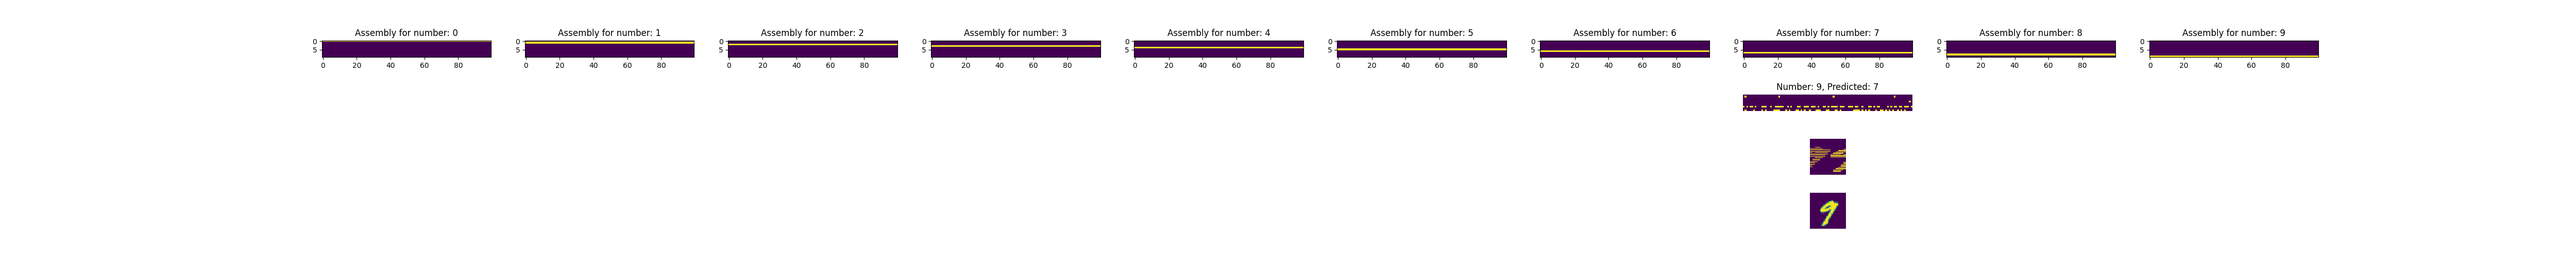
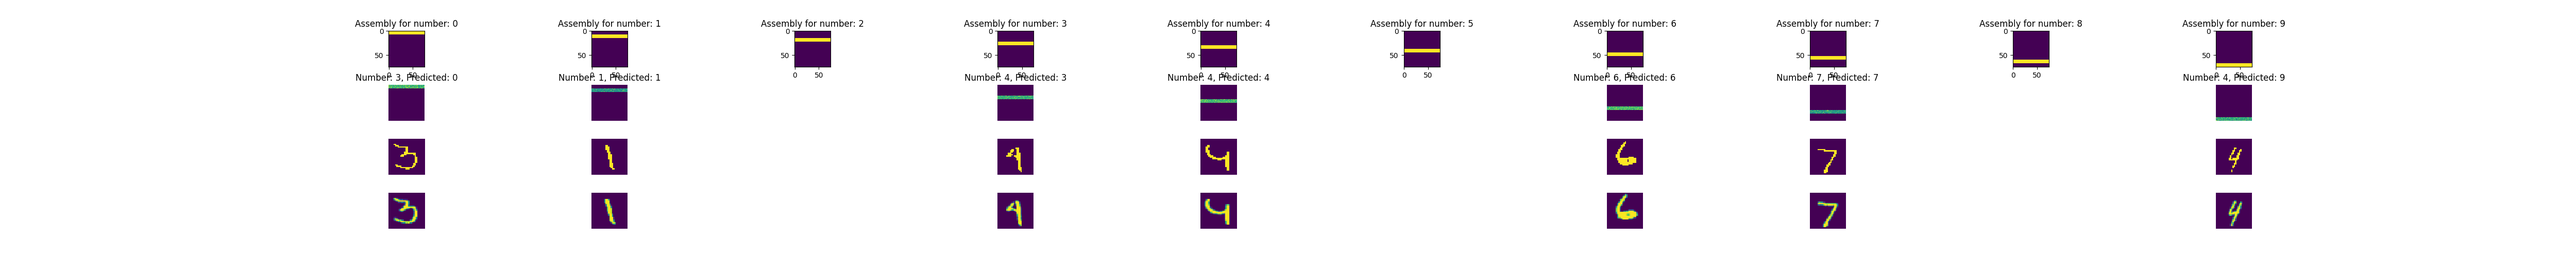
71% accuracy oh yeah

diff --git a/brain.py b/brain.py
@@ -18,7 +18,7 @@ class Brain():
     p_q: float
     no_classes: int
     
-    def __init__(self, p = 0.1, cap_size = 10, beta=0.1, p_r = 0.9, p_q = 0.1, no_classes = 10, n = 100, in_n = 784):
+    def __init__(self, p = 0.1, cap_size = 10, beta=0.1, p_r = 0.9, p_q = 0.1, no_classes = 10, n = 5625, in_n = 784*4):
         self.no_classes = no_classes
         self.cap_size = cap_size
         self.n = n
@@ -47,20 +47,21 @@ class Brain():
         return activations_t_1
     
     def _resize(self, input):
-        n = len(input)
-        out = np.array([])
-    
+        n = input.shape[0]
+        out = np.zeros((2*n, 2*n))
+
         for i in range(n):
-           x = input[i]
-           for _ in range(4):
-                out = np.append(out, x)
-        return out.reshape((56, 56))
+            new_row = np.repeat(input[i], 2)
+            out[2*i] = new_row
+            out[2*i + 1] = new_row
+        
+        return out
     
     def _get_in_class_activations(self, input, activations_callback=None):
         if activations_callback is not None: return activations_callback(input)
 
-        input = np.where(input > 100, 1, 0)        
-        test = self._resize(input)
+        input = np.where(input > 200, 1, 0)
+        test = self._resize(input.reshape((28, 28)))
         # tanh = np.tanh(test)
         # tanh = (np.random.rand(len(tanh)) < tanh).astype(int)
 
@@ -81,7 +82,7 @@ class Brain():
                 self.weights = self.weights * (np.ones((len(in_class_activations), self.n)) + outer_prod)
 
 
-            self.y[i] = np.where(activations_t_1 > 0 + np.finfo(float).eps, 1, 0)
+            self.y[i] = activations_t_1 #np.where(activations_t_1 > 0 + np.finfo(float).eps, 1, 0)
             self.weights /= self.weights.sum(axis=0)
             bias[activations_t_1 > 0] += bias_penalty
         
@@ -89,14 +90,14 @@ class Brain():
     
     def section_activations(self, in_class_activations, i, bias=None, neuron_pr_class=None):
         #bias = None
-        b = np.where((in_class_activations @ self.weights + (bias if bias is not None else 0)) > np.finfo(float).eps, 1, 0)
+        b = in_class_activations @ self.weights + (bias if bias is not None else 0)
         b[:int(neuron_pr_class * i)] = 0
         b[int(neuron_pr_class * (i+1)):] = 0
         
-        return self._k_cap(b, self.cap_size)
+        return b
     
     def section_training(self, test_input = None, no_rounds = None, activations_callback=None):
-        bias = np.zeros(self.n)
+        bias = None #np.zeros(self.n)
         bias_penalty = -1
         neuron_pr_class = self.n / self.no_classes
         
@@ -105,29 +106,35 @@ class Brain():
             no_input = sum(no_rounds[:i])
             for j in range(no_rounds[i]):
                 in_class_activations = self._get_in_class_activations(test_input[no_input + j], activations_callback)
-                activations_t_1 = self.section_activations(in_class_activations, i, bias, neuron_pr_class)
+                activations_t_1 = np.where(self.section_activations(in_class_activations, i, bias, neuron_pr_class) > np.finfo(float).eps, 1, 0)
                 outer_prod = np.outer(in_class_activations, activations_t_1) * self.beta
                 self.weights = self.weights * (np.ones((len(in_class_activations), self.n)) + outer_prod)
 
             self.y[i] = activations_t_1
             self.weights /= self.weights.sum(axis=0)
-            bias[activations_t_1 > 0] += bias_penalty
+            # bias[activations_t_1 > 0] += bias_penalty
         
         return self.y
-    
 
-    def predict(self, input, activations_callback=None):
-        activations_t_1 = self._get_activations(self._get_in_class_activations(input, activations_callback))
-        
+    def predict(self, input, activations_callback=None):     
+        neuron_pr_class = self.n / self.no_classes   
         likely_class = None
         best_score = 0
-        for key, values in self.y.items():
-            score = np.sum(np.array(values) == activations_t_1)
+        final_activations_t_1 = None
+        
+        for i in range(10):
+            activations_t_1 = self.section_activations(self._get_in_class_activations(input, activations_callback), i, bias=None, neuron_pr_class=neuron_pr_class)
+            
+            score = np.sum(activations_t_1)
+            
+            # for key, values in self.y.items():
+            #     score = np.sum(np.array(values) == activations_t_1)
             if score > best_score:
                 best_score = score
-                likely_class = key
+                likely_class = i
+                final_activations_t_1 = activations_t_1
 
-        return likely_class, activations_t_1
+        return likely_class, final_activations_t_1
 
     def score(self, X_test, y_test):
         correct = 0

diff --git a/plots.py b/plots.py
@@ -5,13 +5,13 @@ from brain import *
 from tensorflow import keras
 import time
 
-def assemblies_and_weights(cap_size=100, beta=0.1):
-    brain = Brain(no_classes=10, cap_size=cap_size, n=1000, in_n=784*4, beta=beta)
+def assemblies_and_weights(cap_size=200, beta=0.1):
+    brain = Brain(no_classes=10, cap_size=cap_size, n=5625, in_n=784*4, beta=beta)
     (X_train, y_train),(X_test,y_test) = keras.datasets.mnist.load_data()
-    no_data_items = 1000
+    no_data_items = 100
     labels = y_train[:no_data_items]
     idxs = np.argsort(labels)
-    X_train = [X_train[i] for i in idxs]        
+    X_train = [X_train[i] for i in idxs]
     labels = [labels[i] for i in idxs]
 
     input = np.array([x.flatten() for x in X_train])
@@ -25,7 +25,7 @@ def assemblies_and_weights(cap_size=100, beta=0.1):
     # Plotting the assemblies for each class
     res = []
     for y in training_y.values():
-        res.append(np.array(y).reshape(10, 100))
+        res.append(np.array(y).reshape(75, 75))
     
     fig, axes = plt.subplots(4, len(res), figsize=(5 * len(res), 5))
     for i, y in enumerate(res):
@@ -37,13 +37,13 @@ def assemblies_and_weights(cap_size=100, beta=0.1):
         ax2.axis('off')
         ax3.axis('off')
     
-    for i in range(1, 2):
+    for i in range(40):
         test_index = 20 * i
         number = y_test[test_index]
         data = X_test[test_index]
         
         predicted_class, assembly = brain.predict(data.flatten())
-        assembly = assembly.reshape(10, 100)
+        assembly = assembly.reshape(75, 75)
 
         acti = brain._get_in_class_activations(data.flatten()).reshape(56, 56)
         axes[3, predicted_class].imshow(data, cmap='viridis', interpolation='nearest')
@@ -56,7 +56,7 @@ def assemblies_and_weights(cap_size=100, beta=0.1):
     fig.savefig('plots/assemblies.png')
 
     # Plotting the weights
-    fig, ax = plt.subplots(figsize=(10, 4))
+    fig, ax = plt.subplots(figsize=(75, 75))
     ax.imshow(brain.weights, cmap='hot', interpolation='nearest')
     fig.savefig('plots/weights.png')
 
